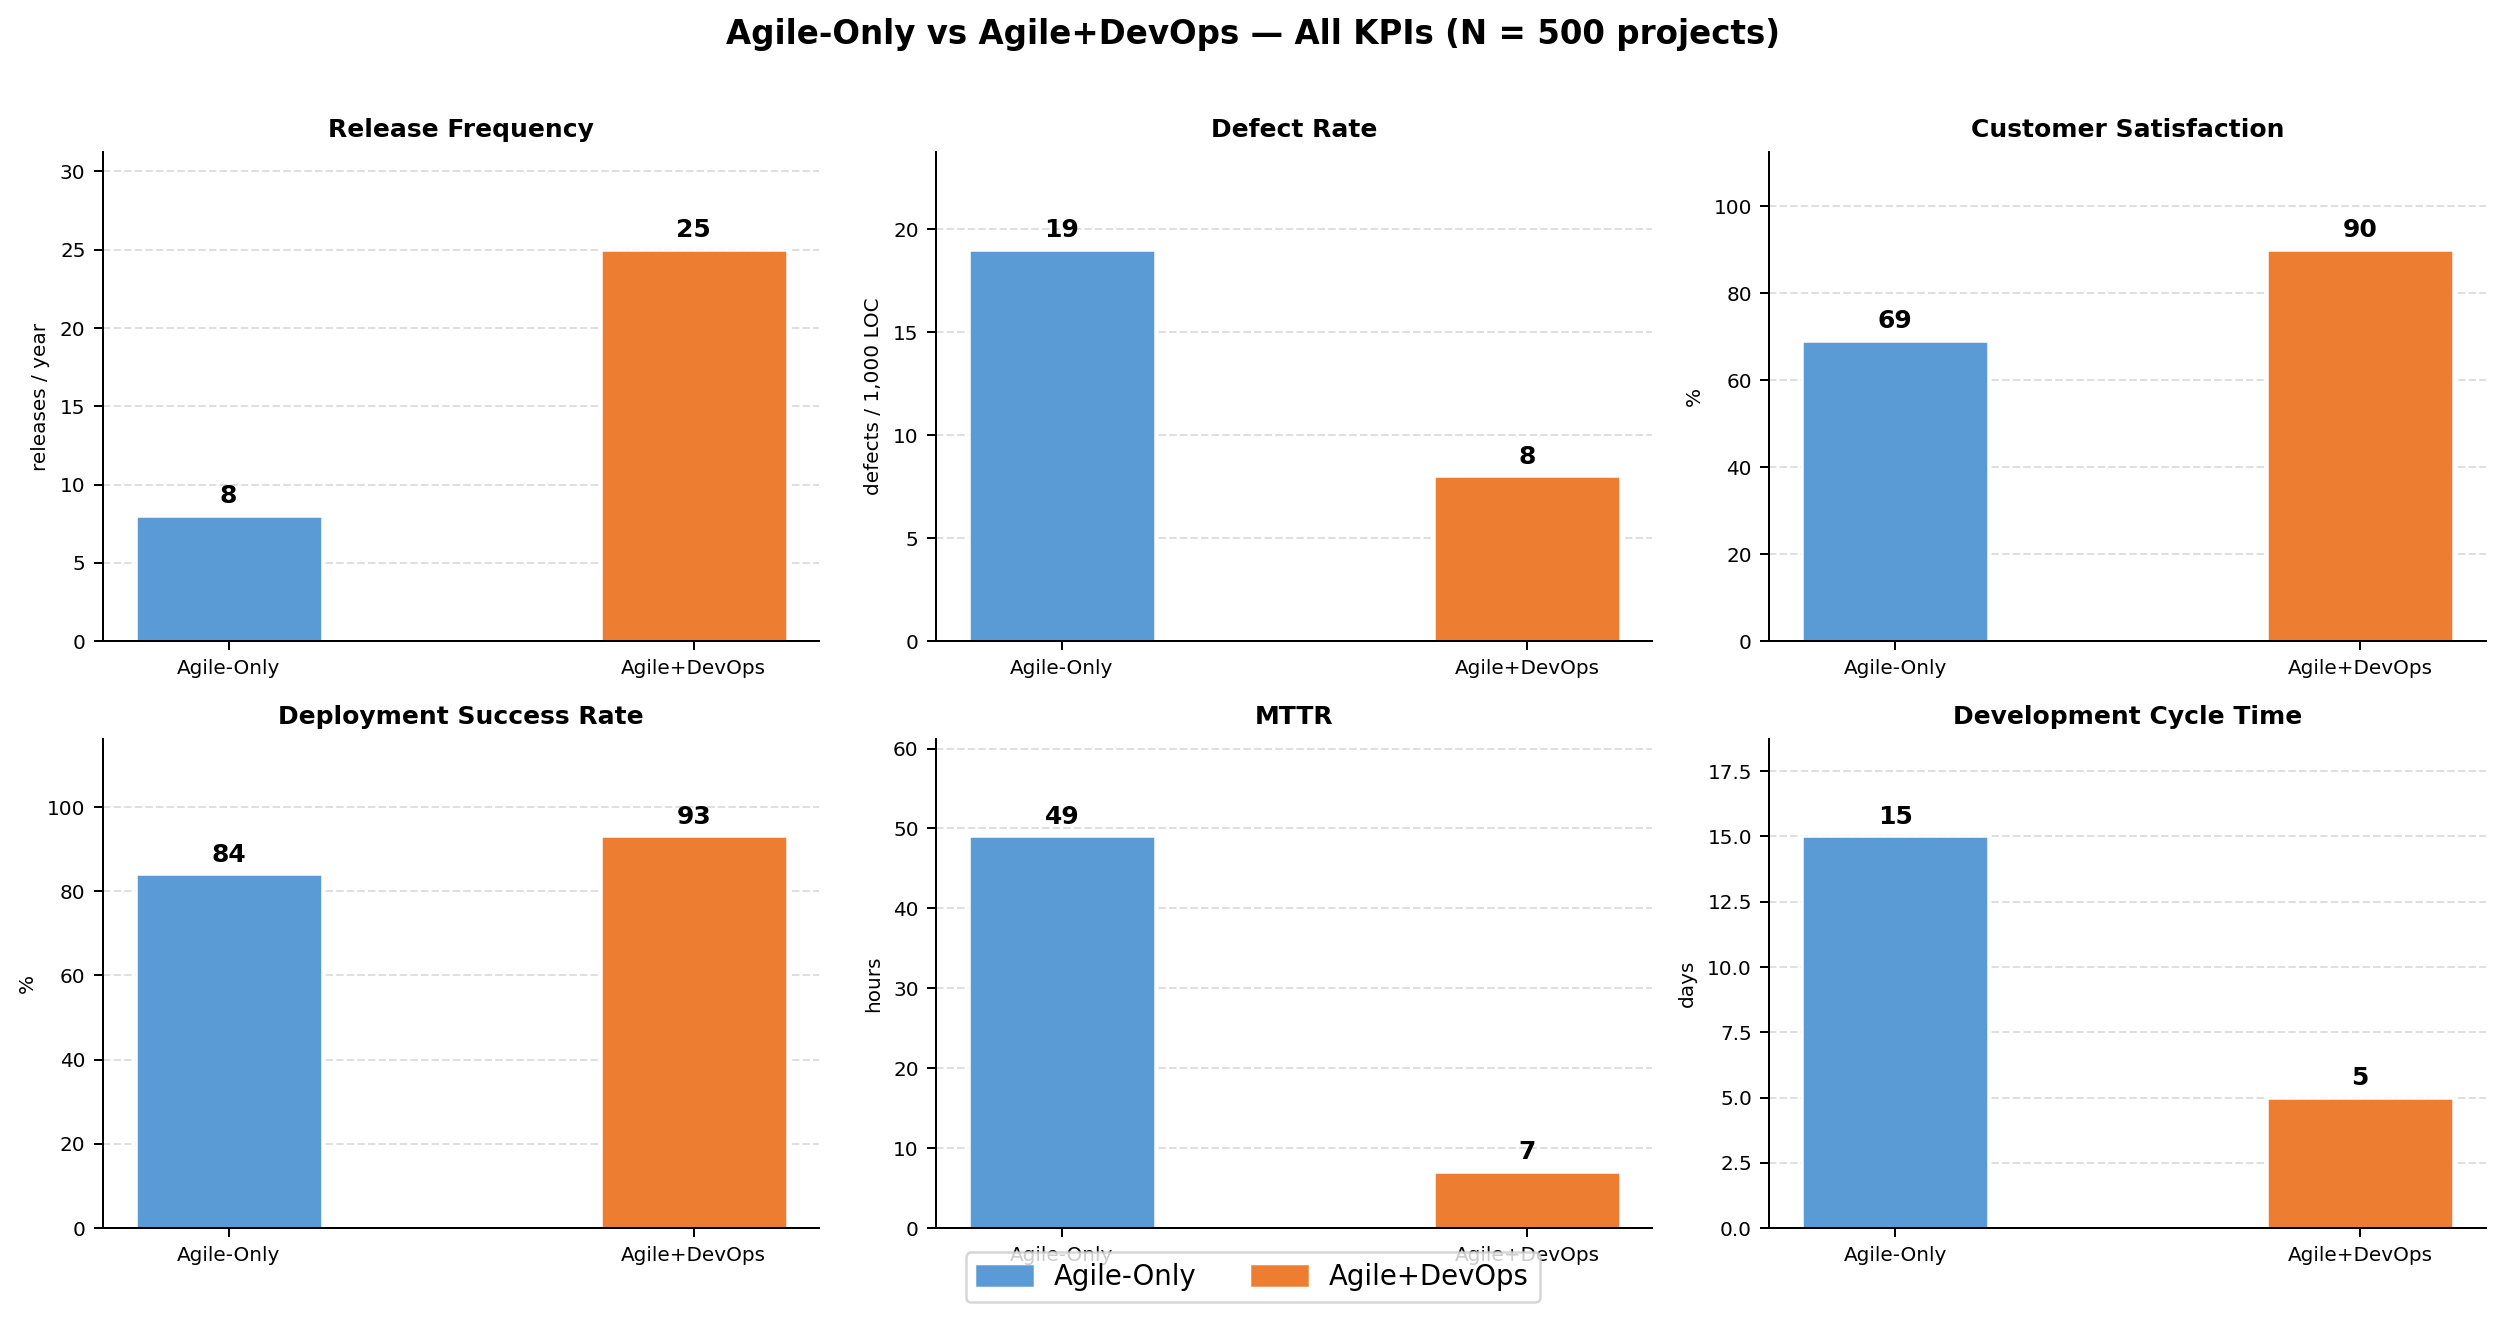
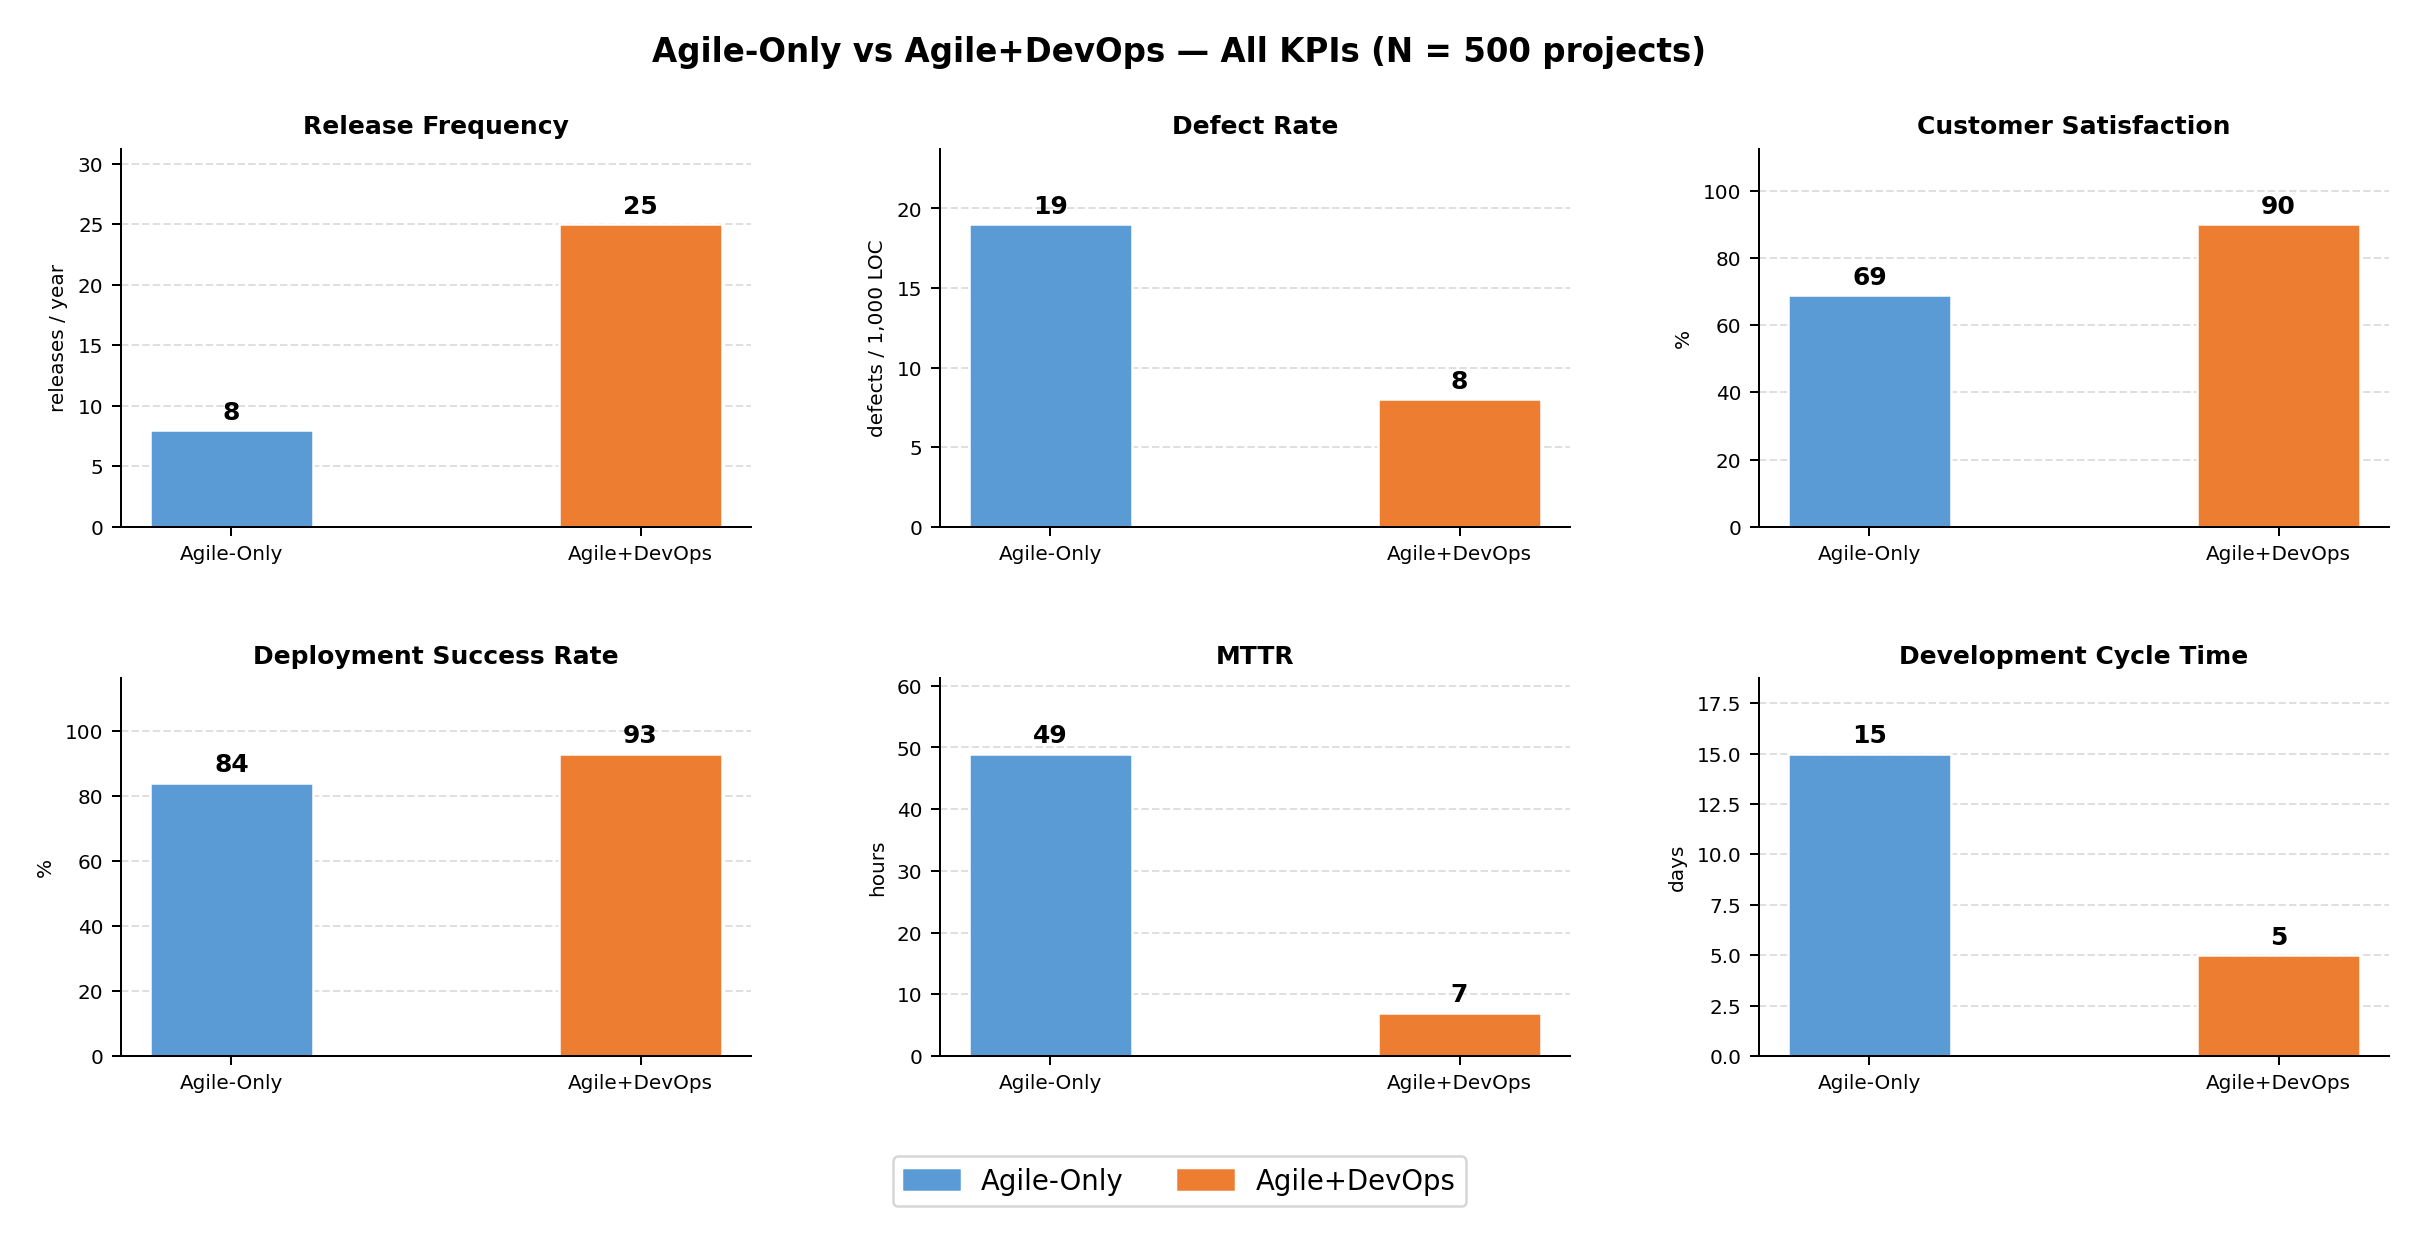
updated

diff --git a/agile_devops_analysis.py b/agile_devops_analysis.py
@@ -5,13 +5,11 @@ import matplotlib.pyplot as plt
 import matplotlib.patches as mpatches
 from scipy import stats
 
-# ── 0. CONFIG ─────────────────────────────────────────────────────────────
 CSV_FILE   = "agile_devops_simulation_dataset.csv"
-OUTPUT_DIR = "."          # all outputs go here
-N_BOOTSTRAP = 10_000      # Monte Carlo iterations
+OUTPUT_DIR = "."          
+N_BOOTSTRAP = 10_000      
 SEED        = 42
 
-# Colours matching paper figures (blue = Agile-only, orange = Agile+DevOps)
 C_AGILE  = "#5B9BD5"
 C_DEVOPS = "#ED7D31"
 
@@ -87,7 +85,6 @@ for m in metrics:
     a_vals = df[m["col_a"]].values.astype(float)
     d_vals = m_d_vals = df[m["col_d"]].values.astype(float)
 
-    # Bootstrap: resample with replacement N_BOOTSTRAP times
     boot_a = np.array([rng.choice(a_vals, size=len(a_vals), replace=True).mean()
                        for _ in range(N_BOOTSTRAP)])
     boot_d = np.array([rng.choice(d_vals, size=len(d_vals), replace=True).mean()
@@ -96,14 +93,12 @@ for m in metrics:
     mean_a = round(boot_a.mean())
     mean_d = round(boot_d.mean())
 
-    # 95 % CI on the difference (DevOps − Agile)
     diff = boot_d - boot_a
     ci_lo, ci_hi = np.percentile(diff, [2.5, 97.5])
 
-    # Paired t-test on bootstrap means
     t_stat, p_val = stats.ttest_rel(boot_a, boot_d)
 
-    # Change label
+    
     if m["name"] == "Release Frequency":
         change_val  = round(mean_d / mean_a, 1)
         change_str  = f"{change_val}x increase"
@@ -116,7 +111,7 @@ for m in metrics:
         change_str  = f"+{pts} percentage points"
         change_val  = pts
 
-    # Format display values
+  
     if m["unit"] == "releases / year":
         a_str = f"{mean_a} releases/year"
         d_str = f"{mean_d} releases/year"
@@ -207,7 +202,7 @@ def save_bar(mean_a, mean_d, metric_name, unit, fig_name, lower_is_better):
                   color=[C_AGILE, C_DEVOPS],
                   width=0.45, edgecolor="white", linewidth=1.2)
 
-    # Value labels on bars
+   
     for bar, val in zip(bars, [mean_a, mean_d]):
         ax.text(bar.get_x() + bar.get_width() / 2,
                 bar.get_height() + max(mean_a, mean_d) * 0.02,
@@ -221,7 +216,6 @@ def save_bar(mean_a, mean_d, metric_name, unit, fig_name, lower_is_better):
     ax.set_axisbelow(True)
     ax.spines[["top", "right"]].set_visible(False)
 
-    # Improvement arrow annotation
     if lower_is_better:
         pct = round((mean_a - mean_d) / mean_a * 100, 1)
         label = f"DOWN {pct}% reduction"
@@ -243,6 +237,7 @@ def save_bar(mean_a, mean_d, metric_name, unit, fig_name, lower_is_better):
     plt.tight_layout()
     path = os.path.join(OUTPUT_DIR, fig_name)
     plt.savefig(path, dpi=180, bbox_inches="tight")
+    plt.show()
     plt.close()
     print(f"  Saved: {fig_name}")
 
@@ -274,7 +269,6 @@ ax.set_axisbelow(True)
 ax.spines[["top", "right"]].set_visible(False)
 ax.legend(fontsize=11)
 
-# Source note
 ax.text(0.01, 0.02,
         "Sources: DORA State of DevOps Report [14]; Digital.ai State of Agile [15]",
         transform=ax.transAxes, fontsize=7, color="grey", va="bottom")
@@ -282,10 +276,10 @@ ax.text(0.01, 0.02,
 plt.tight_layout()
 adop_path = os.path.join(OUTPUT_DIR, "adoption_trends.png")
 plt.savefig(adop_path, dpi=180, bbox_inches="tight")
+plt.show()
 plt.close()
 print(f"  Saved: adoption_trends.png")
 
-# ── 9. COMBINED SUMMARY BAR CHART (all 6 side-by-side) ───────────────────
 print("\nGenerating combined overview chart …")
 fig, axes = plt.subplots(2, 3, figsize=(14, 7))
 axes = axes.flatten()
@@ -309,16 +303,17 @@ for i, (m, r) in enumerate(zip(metrics, results)):
     ax.spines[["top", "right"]].set_visible(False)
     ax.tick_params(labelsize=8)
 
-# Legend
 patch_a = mpatches.Patch(color=C_AGILE,  label="Agile-Only")
 patch_d = mpatches.Patch(color=C_DEVOPS, label="Agile+DevOps")
 fig.legend(handles=[patch_a, patch_d], loc="lower center",
-           ncol=2, fontsize=11, frameon=True, bbox_to_anchor=(0.5, -0.02))
+           ncol=2, fontsize=11, frameon=True, bbox_to_anchor=(0.5, 0.03))
 
 fig.suptitle("Agile-Only vs Agile+DevOps — All KPIs (N = 500 projects)",
-             fontsize=13, fontweight="bold", y=1.01)
-plt.tight_layout()
+             fontsize=13, fontweight="bold", y=0.97)
+fig.subplots_adjust(left=0.08, right=0.98, top=0.88, bottom=0.16,
+                    wspace=0.3, hspace=0.4)
 combined_path = os.path.join(OUTPUT_DIR, "fig_combined_overview.png")
-plt.savefig(combined_path, dpi=180, bbox_inches="tight")
+plt.savefig(combined_path, dpi=180, bbox_inches="tight", pad_inches=0.2)
+plt.show()
 plt.close()
 print(f"  Saved: fig_combined_overview.png")
